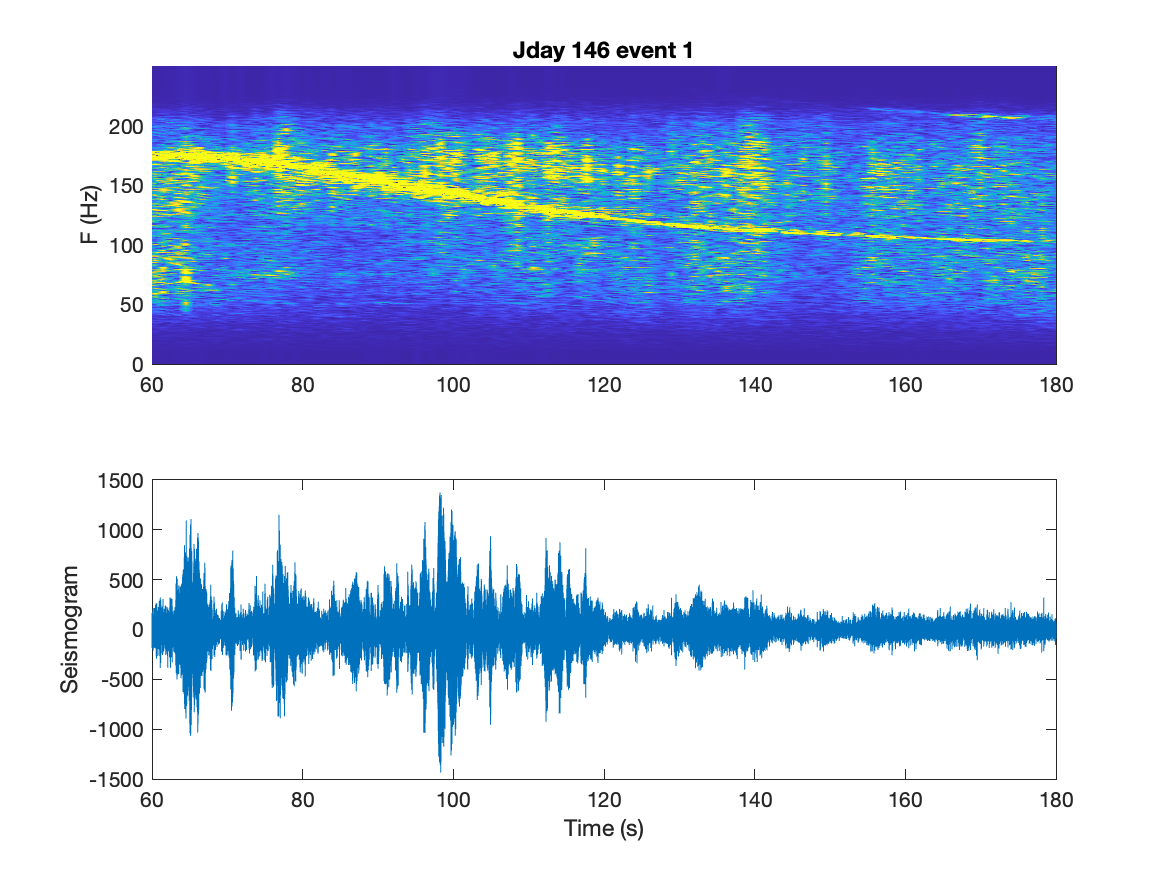
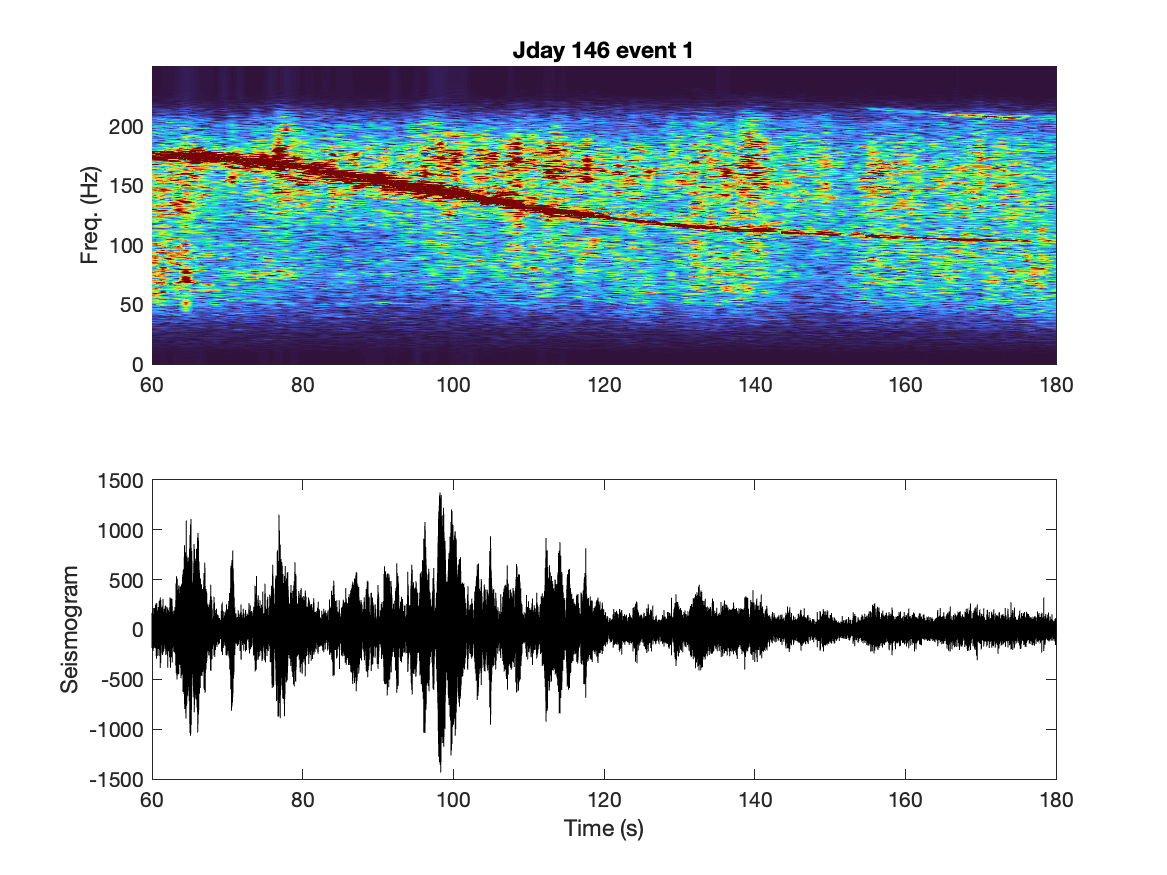
Add files via upload

diff --git a/Doppler.m b/Doppler.m
@@ -23,7 +23,8 @@ h = figure; set(h, 'Visible', 'off');
 subplot(2,1,1)
 pcolor(T2,F,abs(S2)); shading interp; hold on;
 caxis([0 4000])
-box on; ylabel('F (Hz)')
+box on; ylabel('Freq. (Hz)')
+colormap(turbo)
 xlim([t1 t2])
 title('Jday 146 event 1')
 
@@ -35,7 +36,7 @@ end
 
 subplot(2,1,2)
 t = 0:sachdr.delta:(length(data)-1)*sachdr.delta;
-plot(t,data);
+plot(t,data,'-k');
 xlim([min(t) max(t)])
 xlabel('Time (s)')
 ylabel('Seismogram')
@@ -78,7 +79,7 @@ t0 = fitresult.t0 + mean(T2);
 %% Plot fit with data.
 h = figure; set(h, 'Visible', 'off');
 h1 = plot( fitresult, xData , yData,'.k');
-legend(h1, 'freq. vs. time', 'curve fit');
+legend(h1, 'Freq. vs. time', 'Curve fit');
 title(['f_0 = ' num2str(f0) 'Hz, v_0 = ' num2str(v0) 'm/s, l = ' num2str(l) 'm']);
 % Label axes
 xlabel('Time (s)')
